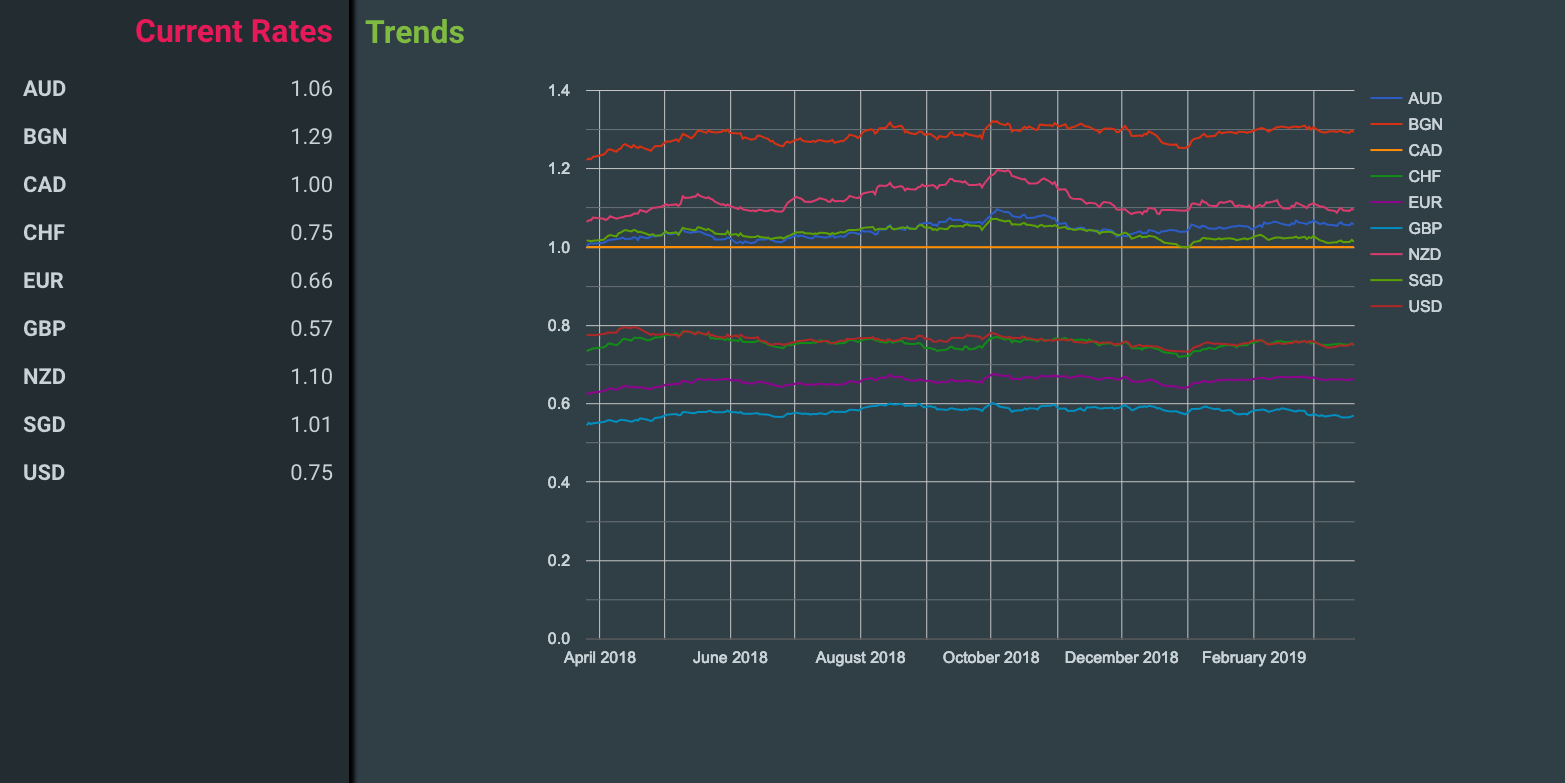
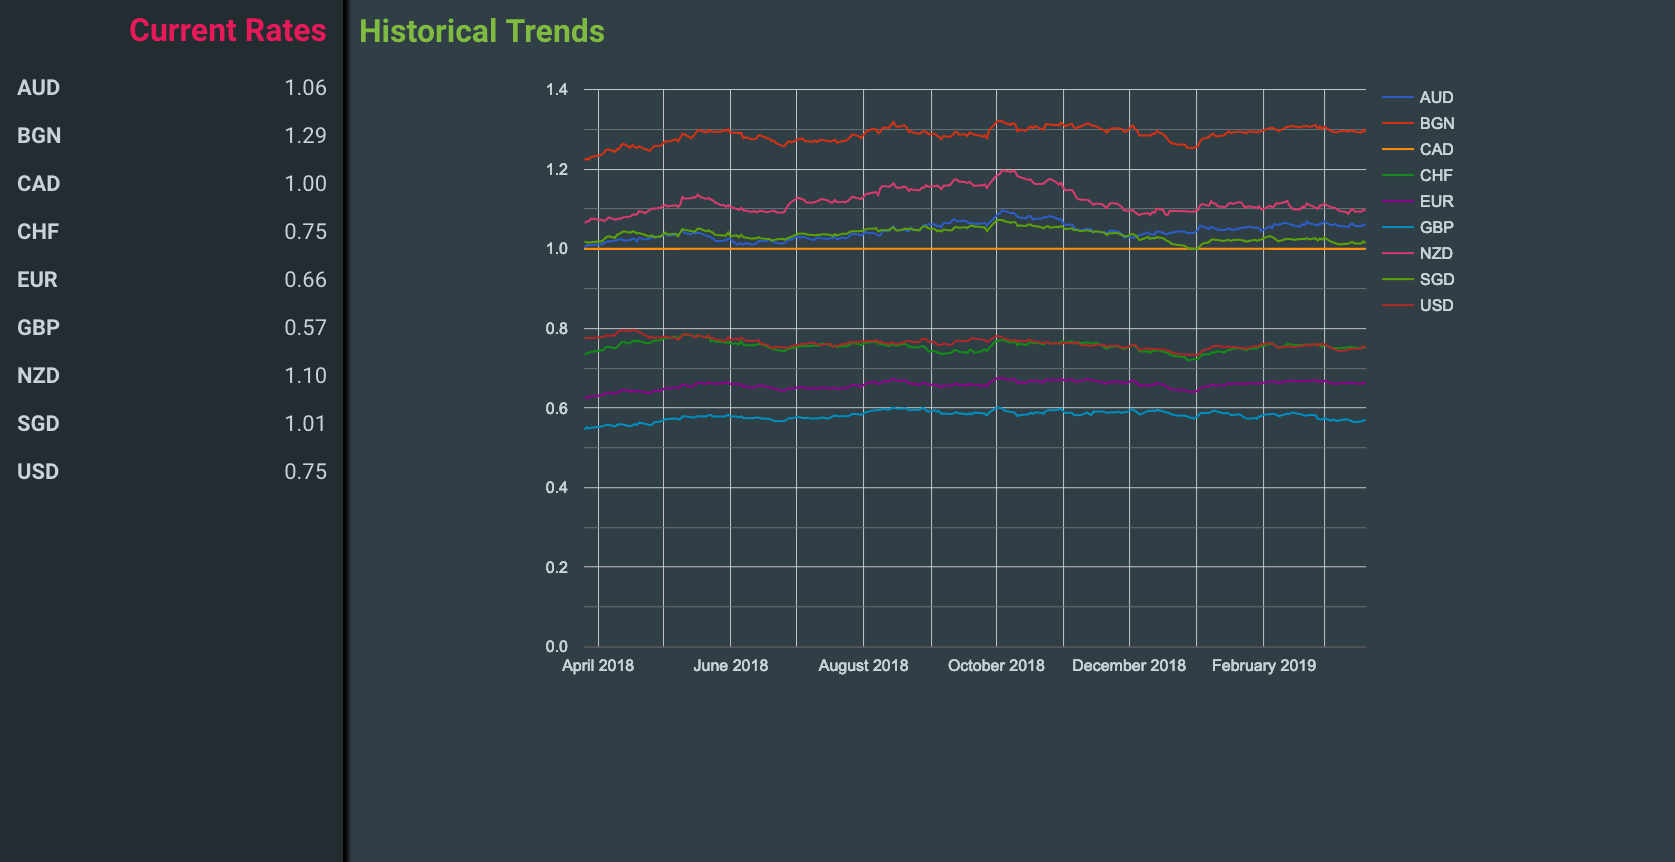
Update content title and demo img.

diff --git a/src/currency-exchange-app/currency-chart.js b/src/currency-exchange-app/currency-chart.js
@@ -23,7 +23,7 @@ class CurrencyChart extends PolymerElement {
 		<paper-item class="title">
 			<paper-item-body>
 				<div>
-					<h1>Trends</h1>
+					<h1>Historical Trends</h1>
 				</div>
 			</paper-item-body>
 		</paper-item>
